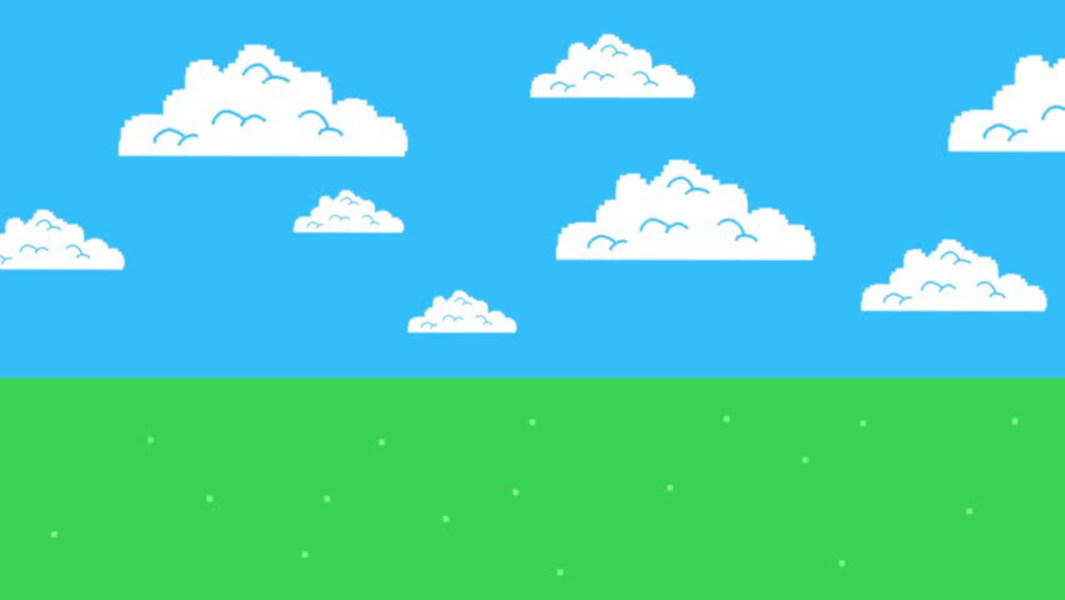
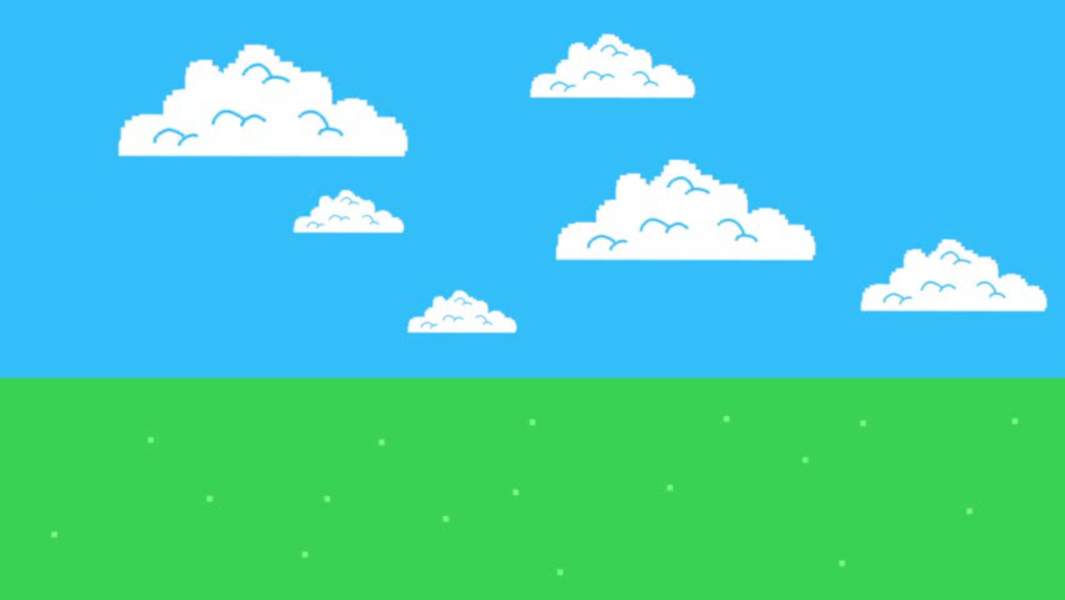
Improve scrolling.

Changed region(s): [[0.8676, 0.09, 1.0, 0.27], [0.0, 0.33, 0.1239, 0.45]]

diff --git a/game.py b/game.py
@@ -2,6 +2,7 @@ import pygame
 from player import Player
 from background import Background
 
+
 class GameLoop:
     def __init__(self):
         self._running = True
@@ -40,11 +41,13 @@ class GameLoop:
             if event.key == pygame.K_LEFT:
                 for enemy in self.enemy_group:
                     enemy.move_right()
-                self.background1.move_right()
+                self.player1.move_left()
             if event.key == pygame.K_RIGHT:
                 for enemy in self.enemy_group:
                     enemy.move_left()
                 self.background1.move_left()
+                if self.player1.rect.left < (self.width * 0.4):
+                    self.player1.move_right()
             if event.key == pygame.K_SPACE:
                 if not self.player1.jump_in_progress():
                     self.player1.jump_start()
@@ -53,14 +56,23 @@ class GameLoop:
             if event.key == pygame.K_LEFT:
                 for enemy in self.enemy_group:
                     enemy.move_right_off()
-                self.background1.move_right_off()
+                self.player1.move_left_off()
             if event.key == pygame.K_RIGHT:
                 for enemy in self.enemy_group:
                     enemy.move_left_off()
                 self.background1.move_left_off()
+                self.player1.move_right_off()
 
 
     def on_loop(self):
+        # Handle keys held down at state transitions.
+        if self.player1.rect.left >= (self.width * 0.4):
+            self.player1.move_right_off()
+        if self.player1.rect.left <= 0:
+            self.player1.move_left_off()
+            for enemy in self.enemy_group:
+                enemy.move_right_off()
+
         # Adjust character positions.
         self.background1.reposition()
         self.player1.jump()
@@ -70,7 +82,8 @@ class GameLoop:
 
         # Check for collisions.
         if pygame.sprite.spritecollide(self.player1, self.enemy_group, False):
-            print("collision")
+            #print("collision")
+            pass
 
         # Add elements to display surface.
         self._display_surf.fill((52, 235, 235))  # Background

diff --git a/background.py b/background.py
@@ -7,15 +7,18 @@ class Background(pygame.sprite.Sprite):
 
         self.image = pygame.image.load(img)
         self.rect = self.image.get_rect()
+        self.image1 = pygame.image.load(img)
+        self.rect1 = self.image.get_rect()
 
         self.rect.left = x
         self.rect.top = y
+        self.rect1.left = x + self.rect.width
+        self.rect1.top = y
 
         # Movement
+        self.position_x = 0
         self.move_l = 0
         self.move_r = 0
-        self.move_d = 0
-        self.move_u = 0
         self.step = step
 
 
@@ -27,14 +30,6 @@ class Background(pygame.sprite.Sprite):
         self.move_r = self.step
 
 
-    def move_up(self):
-        self.move_u = self.step * -1
-
-
-    def move_down(self):
-        self.move_d = self.step
-
-
     def move_left_off(self):
         self.move_l = 0
 
@@ -43,18 +38,22 @@ class Background(pygame.sprite.Sprite):
         self.move_r = 0
 
 
-    def move_up_off(self):
-        self.move_u = 0
-
-
-    def move_down_off(self):
-        self.move_d = 0
-
-
     def reposition(self):
+        self.position_x += -1 * (self.move_l + self.move_r)
+
         self.rect.left += self.move_l + self.move_r
-        self.rect.top += self.move_u + self.move_d
+        self.rect1.left += self.move_l + self.move_r
+
+        self.coords = [self.rect.left, self.rect1.left]
+        self.coords.sort()
+        print("{} - {}".format(self.coords, self.position_x))
+
+        if abs(self.rect.left - self.position_x) > (self.rect.width + (self.rect.width * 0.25)):
+            self.rect.left = self.coords[1] + self.rect.width
+        if abs(self.rect1.left - self.position_x) > (self.rect.width + (self.rect.width * 0.25)):
+            self.rect1.left = self.coords[1] + self.rect.width
 
 
     def display(self, dsp_surface):
         dsp_surface.blit(self.image, (self.rect.left, self.rect.top))
+        dsp_surface.blit(self.image1, (self.rect1.left, self.rect1.top))
